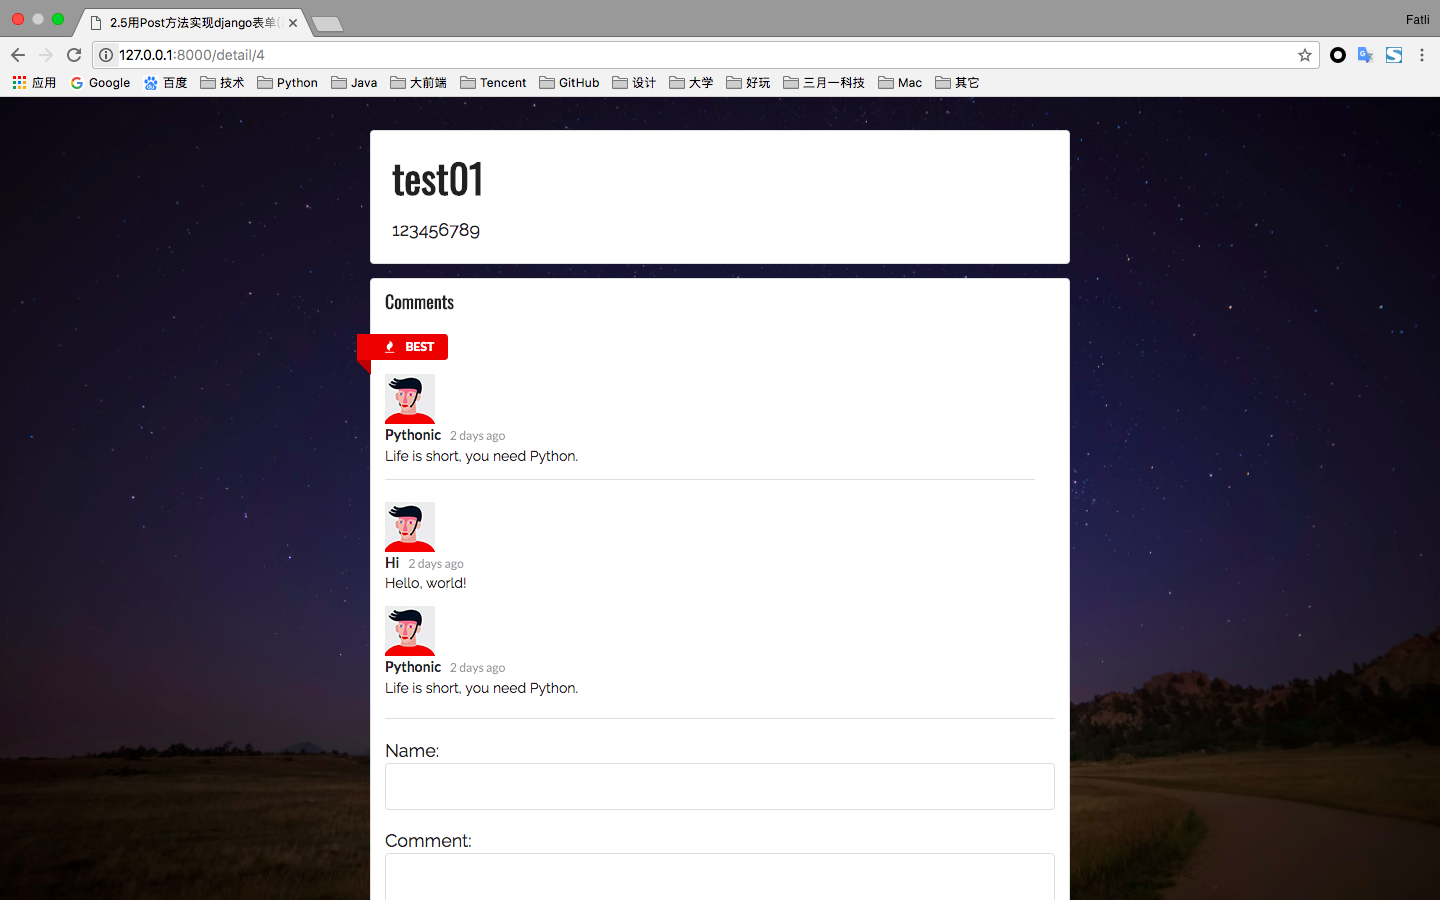
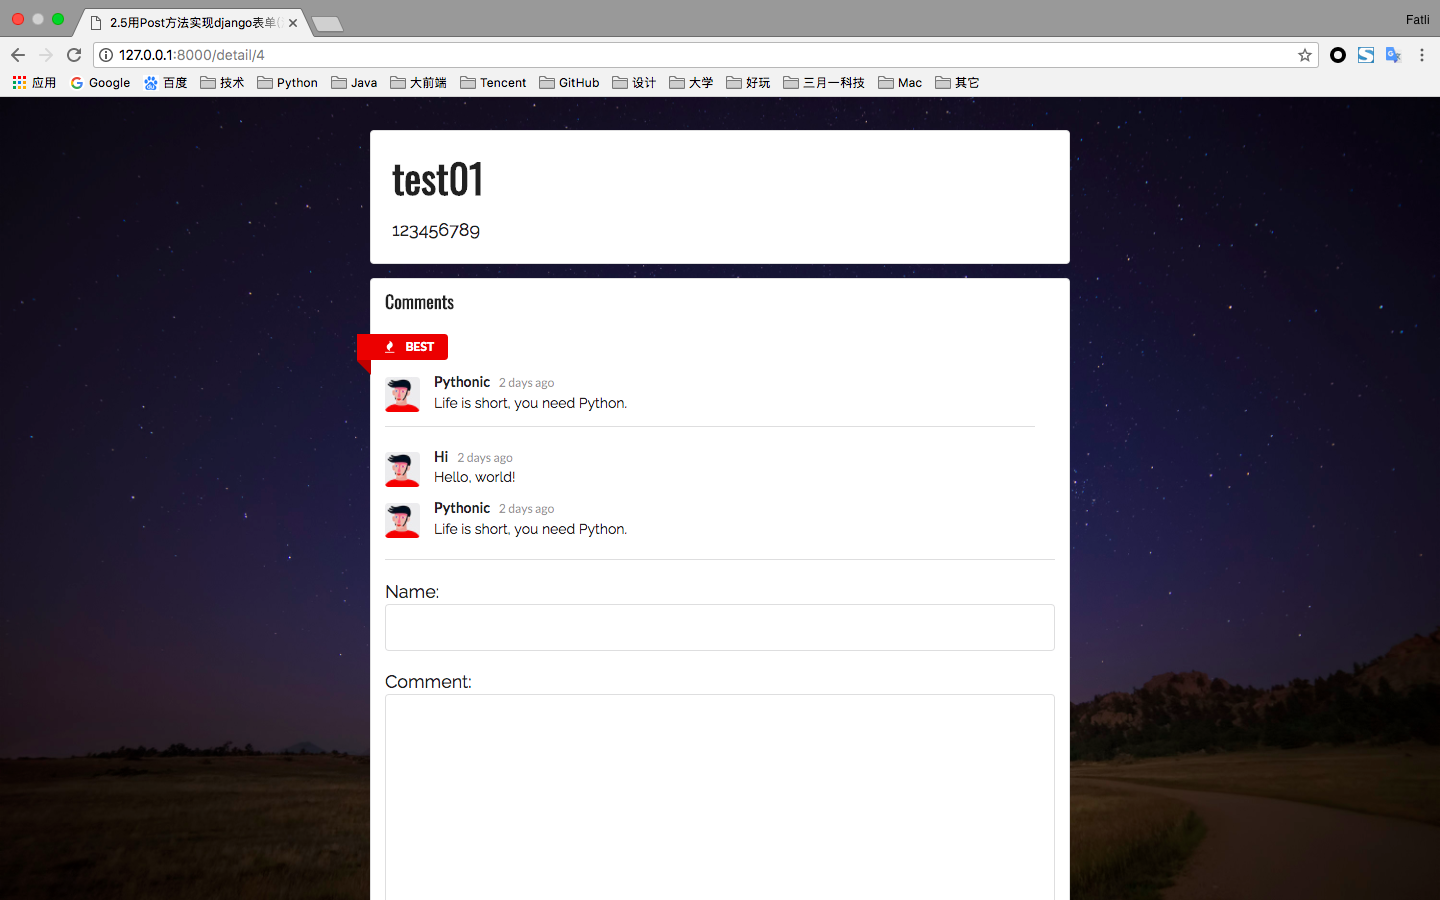
Semantic-UI组件avatar
<!-- <div class="avater"> -->
<div class="avatar">

diff --git a/firstsite/firstapp/templates/article_detail.html b/firstsite/firstapp/templates/article_detail.html
@@ -65,7 +65,8 @@
                     </div>
 
                     <div class="best comment">
-                        <div class="avater">
+                        <!-- <div class="avater"> -->
+                        <div class="avatar">
                             <!-- 评论人头像 -->
                             <img src="http://semantic-ui.com/images/avatar/small/matt.jpg" alt="" />
                         </div>
@@ -89,7 +90,8 @@
                 <!-- for comment in comment_list -->
                 {% for comment in article.under_comments.all %}
                     <div class="comment">
-                        <div class="avater">
+                        <!-- <div class="avater"> -->
+                        <div class="avatar">
                             <!-- 评论人头像 -->
                             <img src="http://semantic-ui.com/images/avatar/small/matt.jpg" alt="" />
                         </div>
